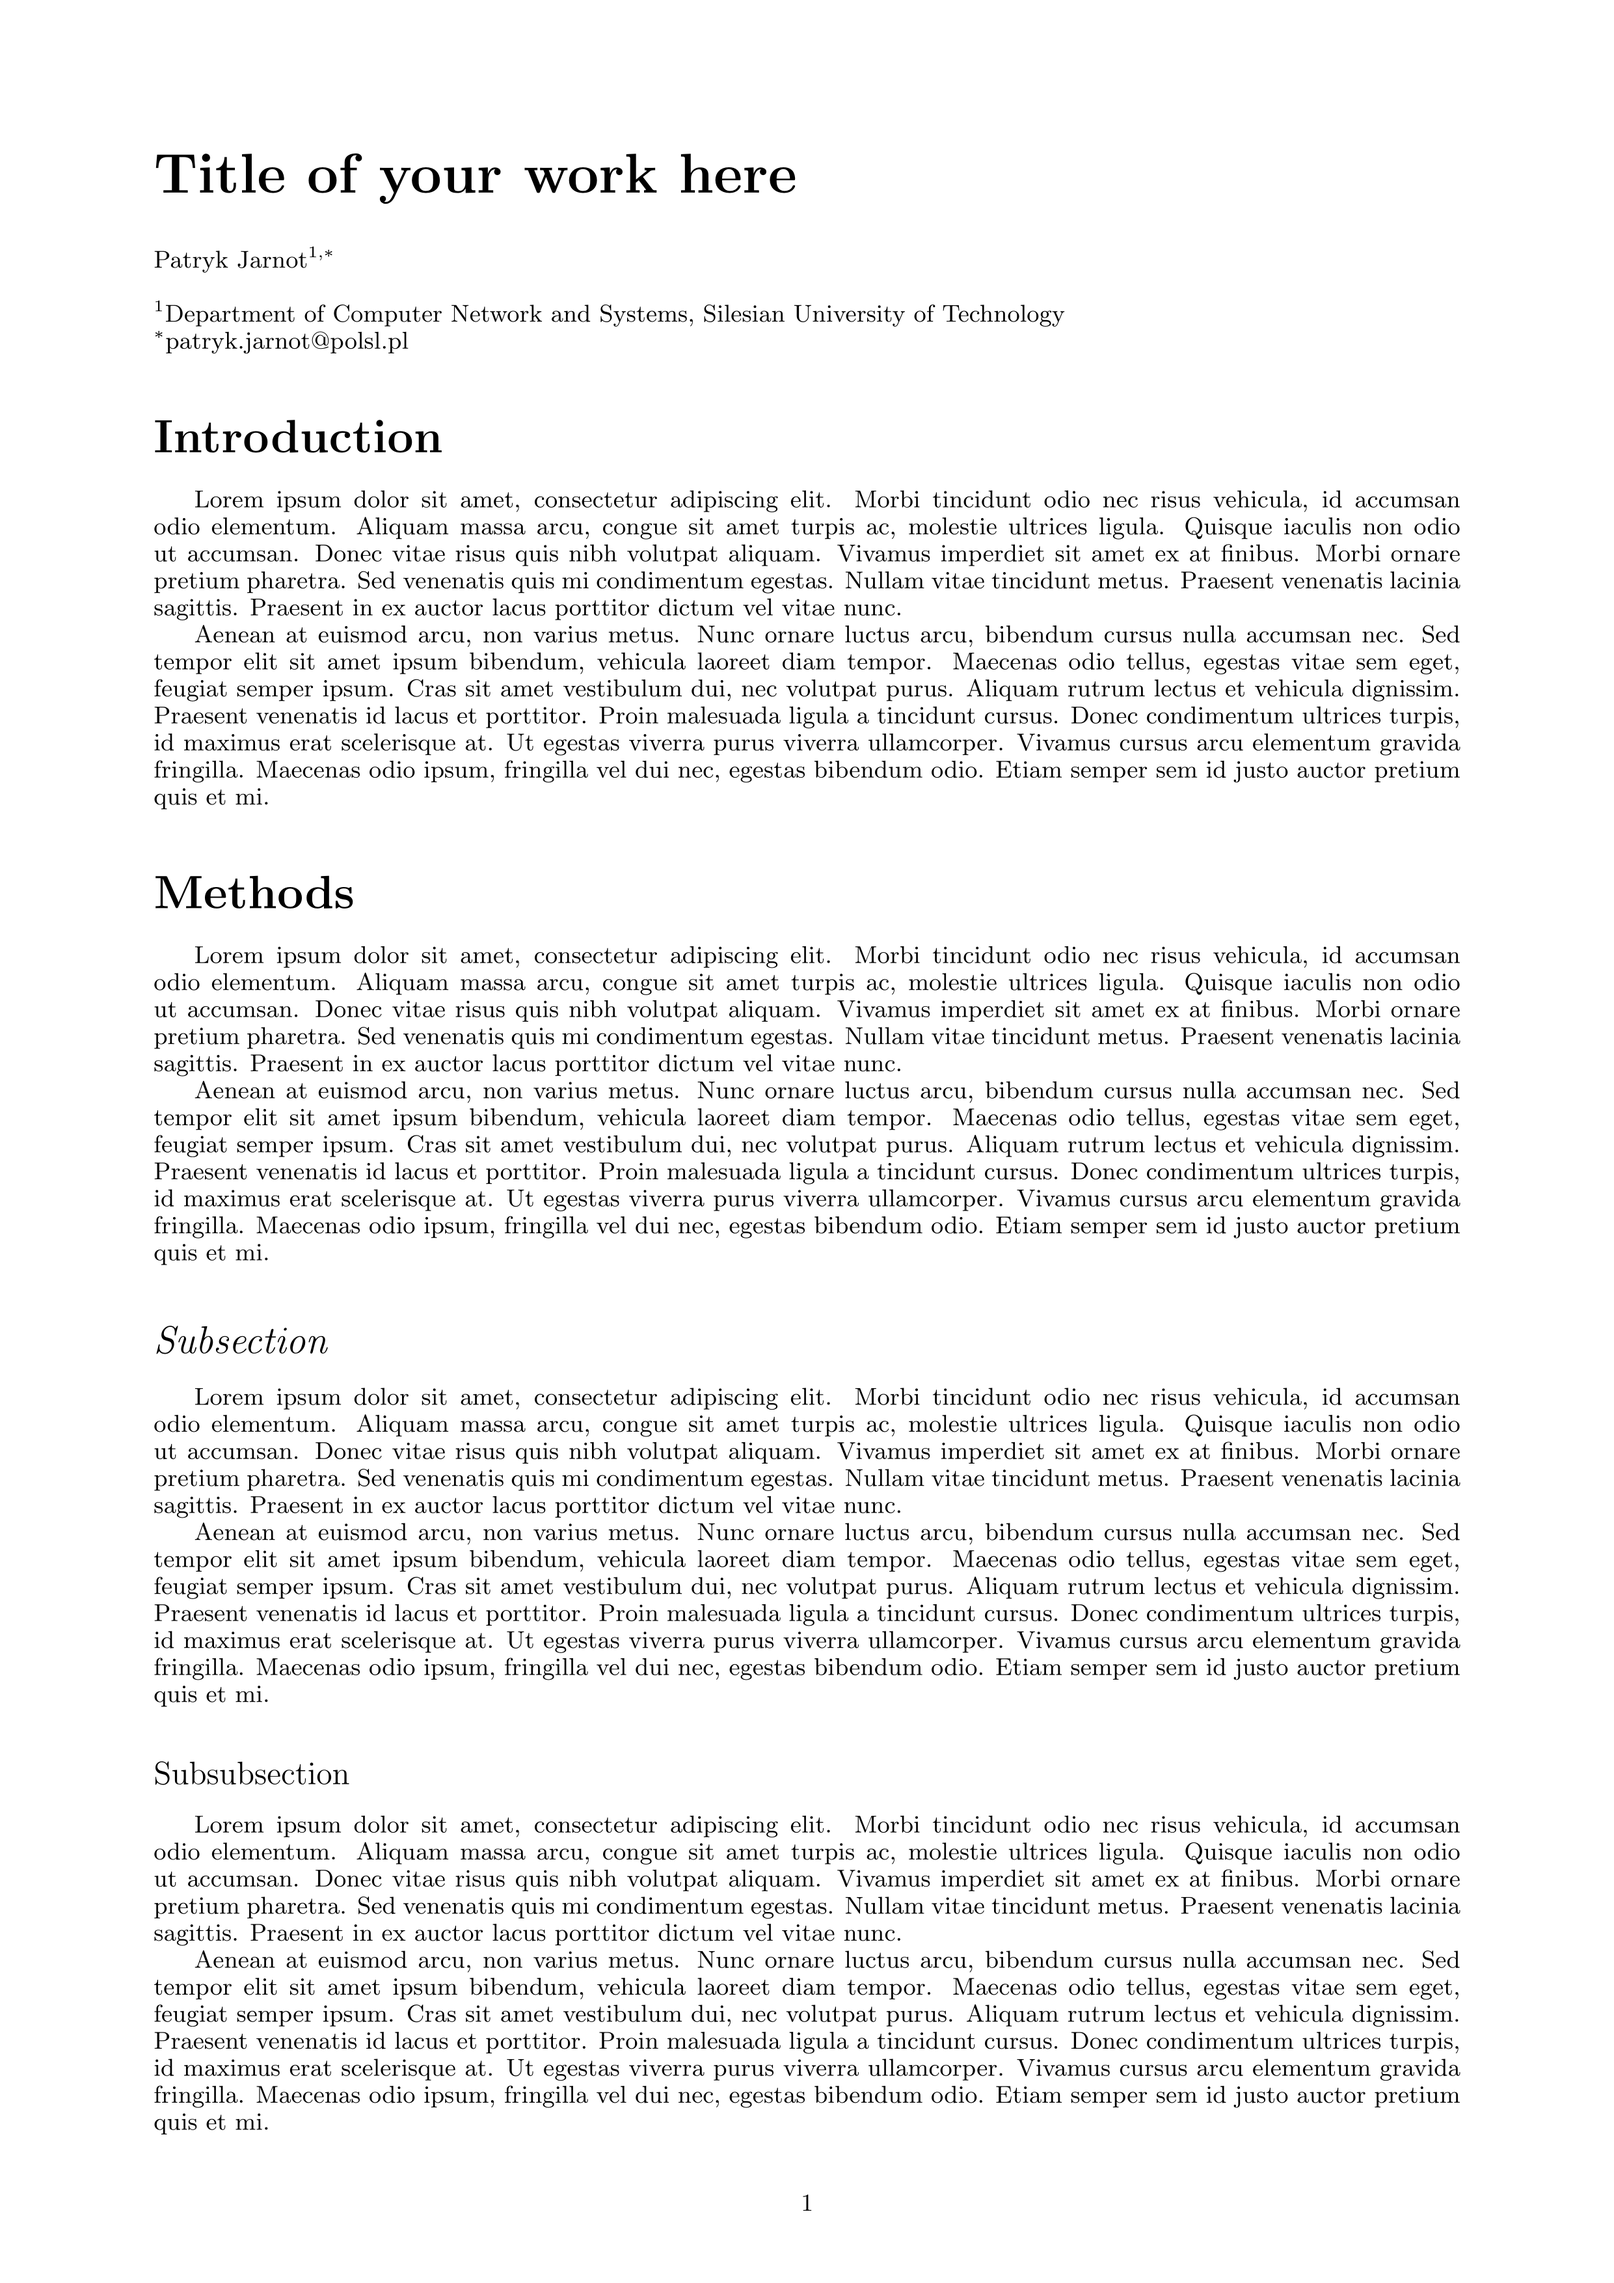
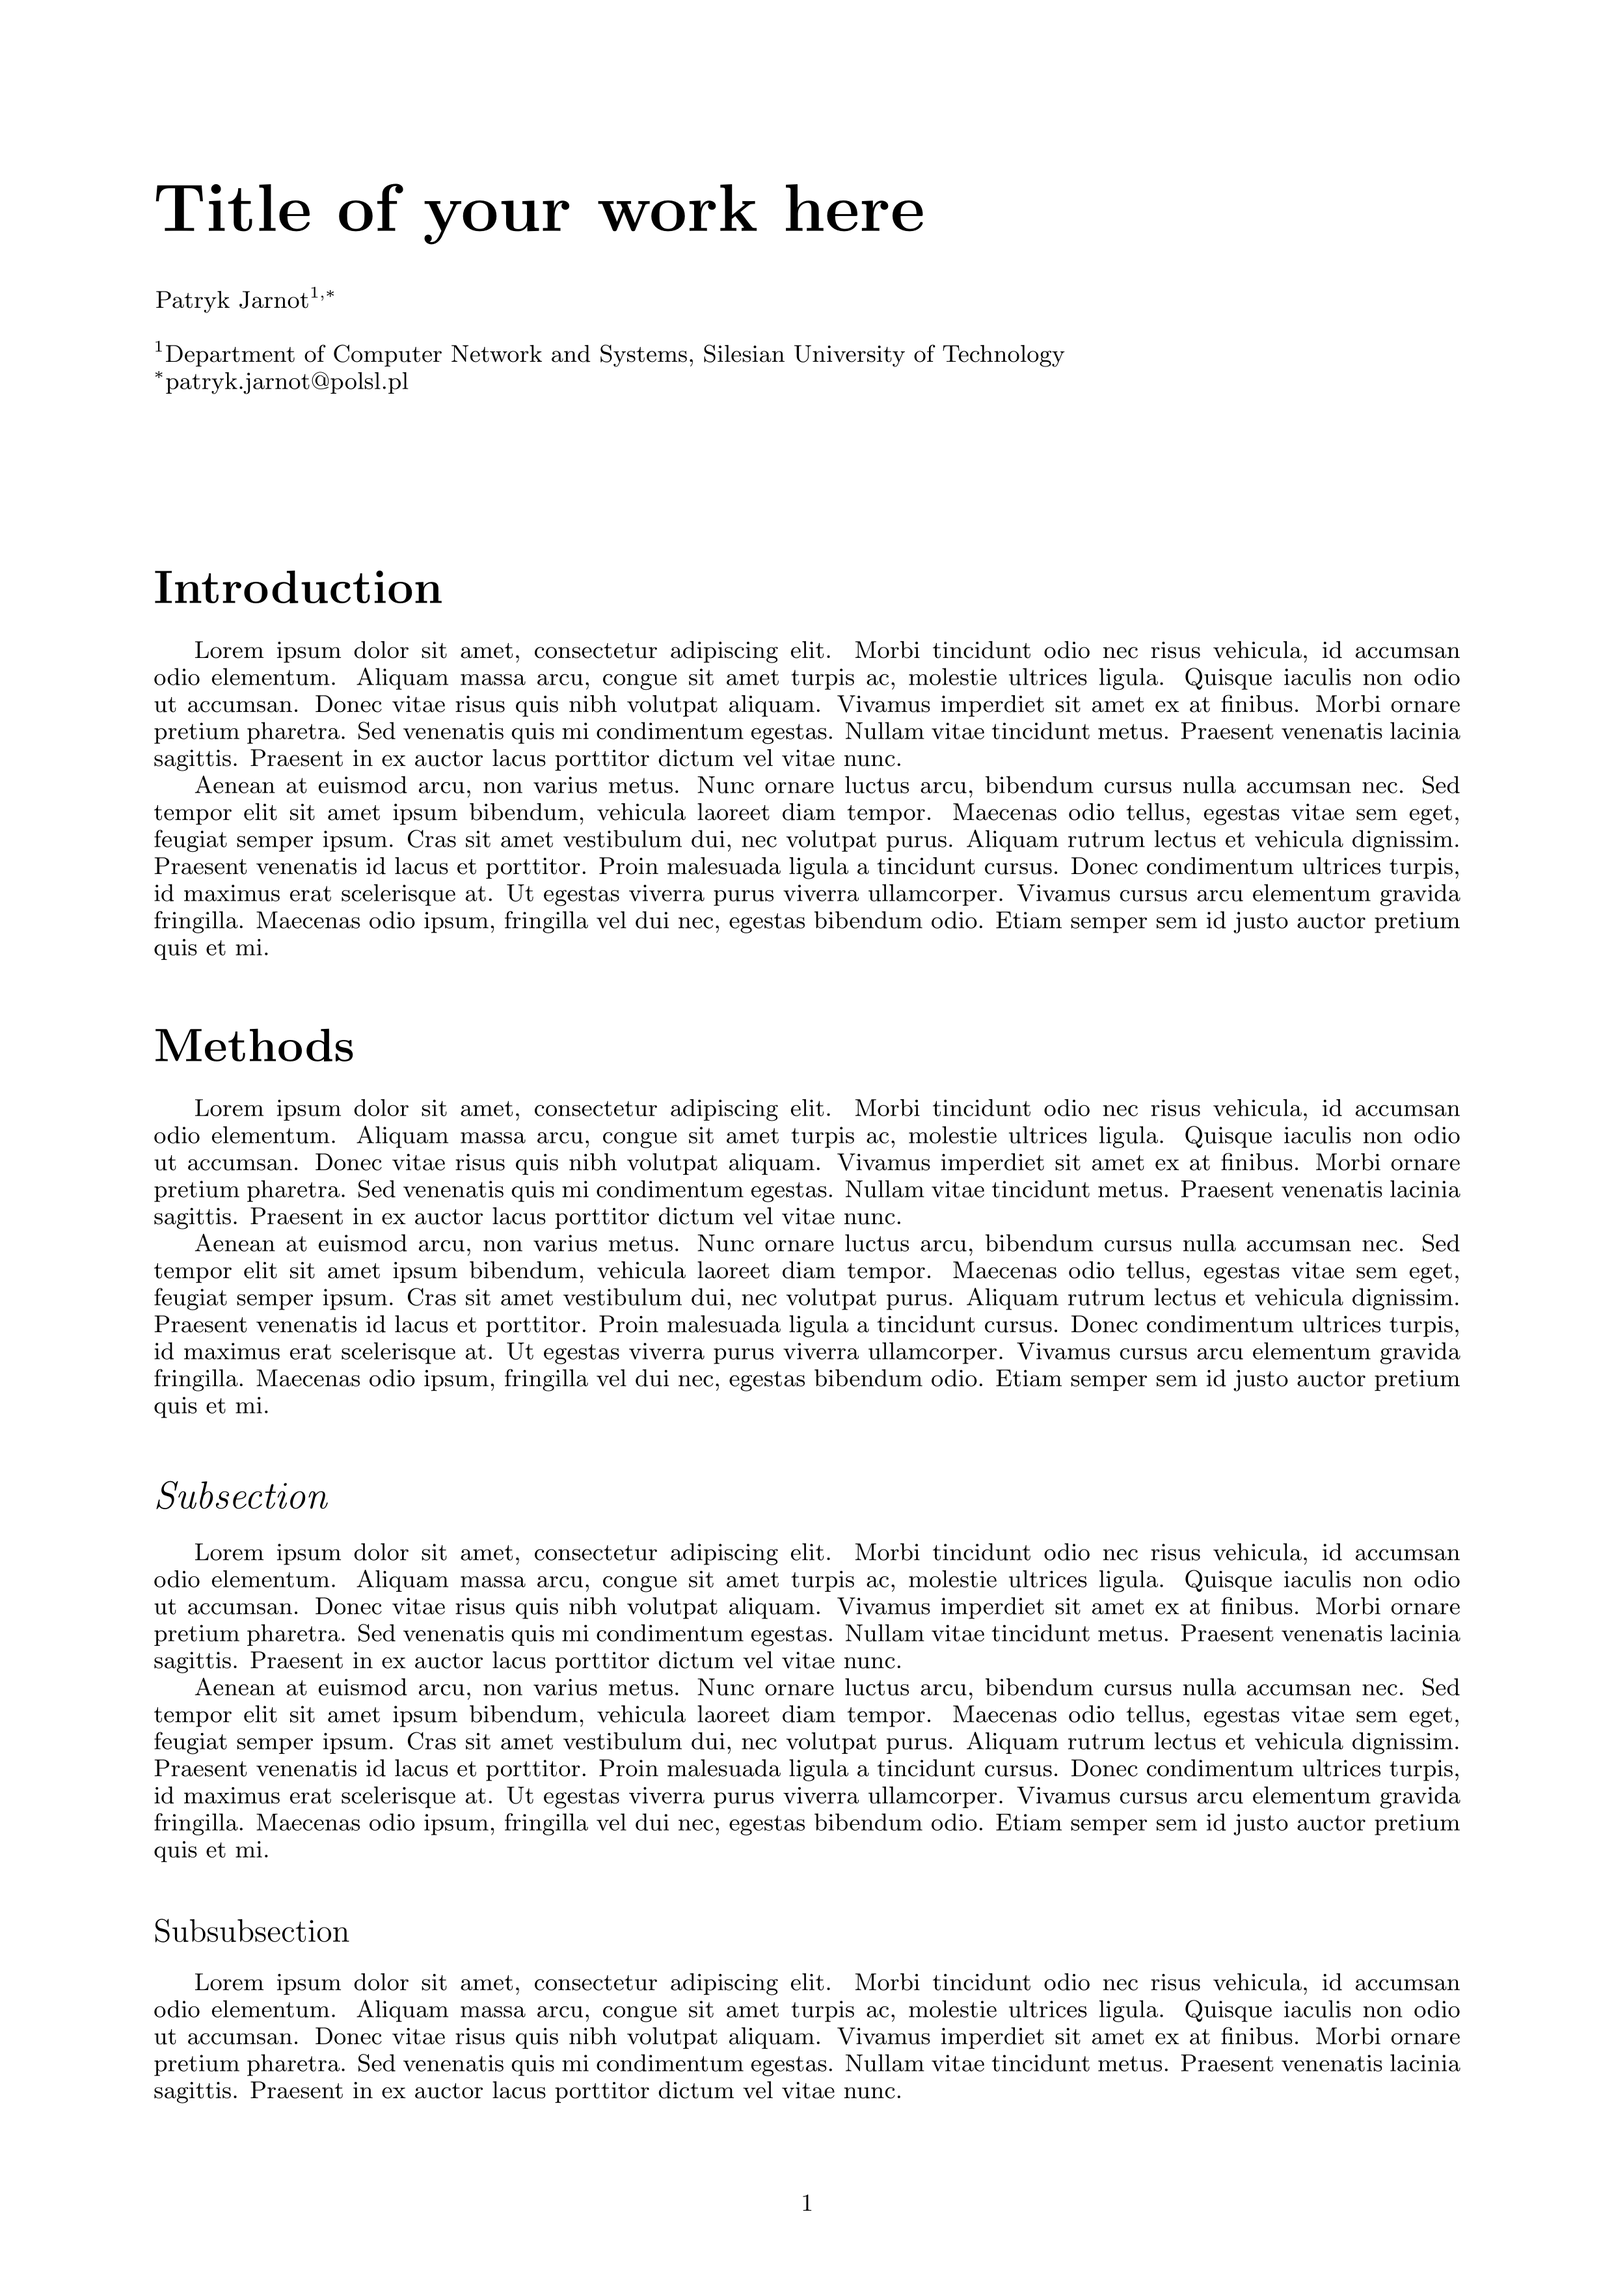
Use titling to allow for one and two column article

diff --git a/mini_template.tex b/mini_template.tex
@@ -1,4 +1,4 @@
-\documentclass[onecolumn]{miniclass}
+\documentclass[twocolumn]{miniclass}
 \usepackage[utf8]{inputenc}
 \usepackage[english]{babel}
 \usepackage{caption}
@@ -13,7 +13,7 @@
 \affil[1]{Department of Computer Network and Systems, Silesian University of Technology}
 \affil[$\ast$]{patryk.jarnot@polsl.pl}
 
-\date{July 2025}
+\date{}
 
 \begin{document}
 
